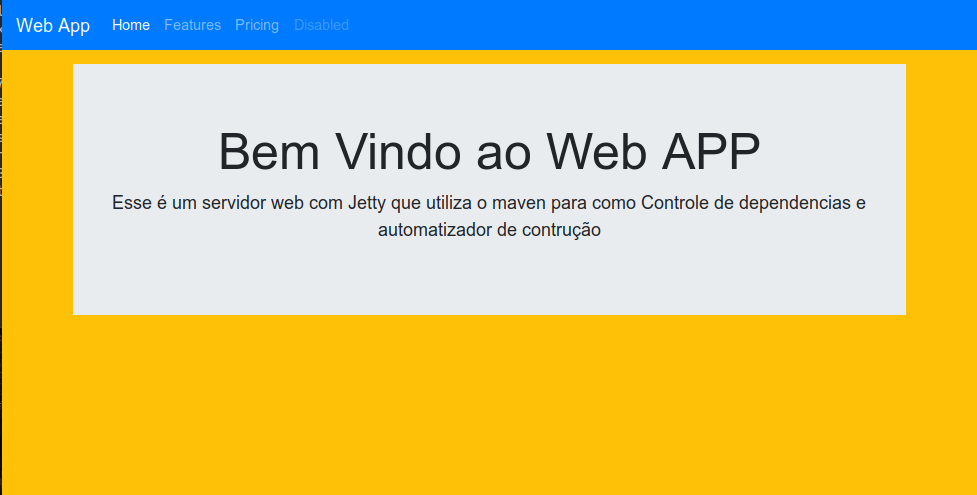
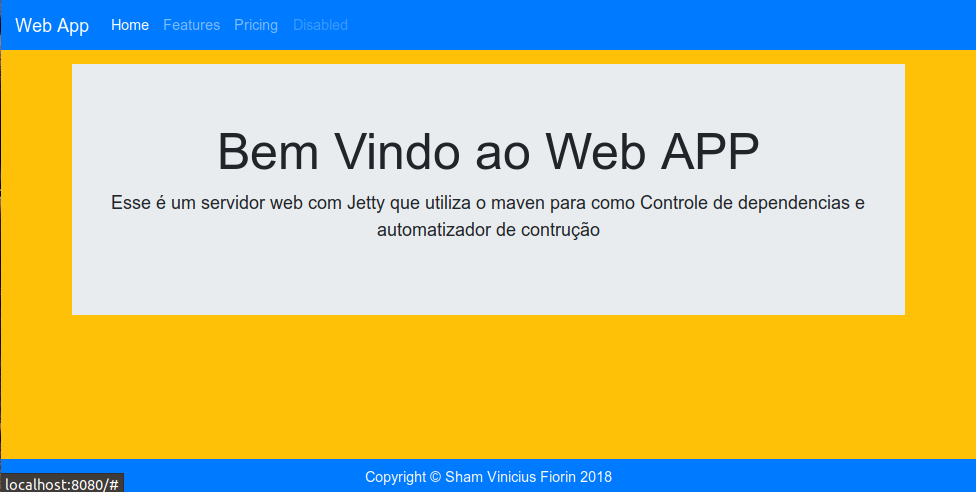
readme

diff --git a/README.md b/README.md
@@ -1,2 +1,36 @@
 # webapp-jetty-maven
 Aplicação Web com Jetty e Maven
+
+A outra [projeto Java](https://github.com/skatesham/maven-course-products) desenvolvido explica uma sequencia de comandos e depdendencias do Maven no [README](https://github.com/skatesham/maven-course-products/blob/master/README.md).
+
+### Criação do projeto por linha de comando
+```
+
+```
+
+### Configuraçãoes no `pom.xml`
+
+#### Dependencias
+```
+
+```
+
+### Configurando o Projeto
+
+#### Plugins
+```
+
+```
+
+### Tela Inicial
+A tela inicial utiliza de aproveitamento de template na pagina `index.jsp`
+
+![alt text](https://raw.githubusercontent.com/skatesham/webapp-jetty-maven/master/src/main/webapp/static/img/P%C3%A1gina.png)
+
+### Certificado do Curso
+![alt text](https://raw.githubusercontent.com/skatesham/webapp-jetty-maven/master/src/main/webapp/static/img/certificado.png).
+
+#### Curso Maven: Build do zero a web
+Esse projeto é o baseado no trabalho final do [Curso Maven: Build do zero a web](https://cursos.alura.com.br/course/maven-build-do-zero-a-web).
+
+##### Desenvolvido por Sham Vinicius Fiorin
